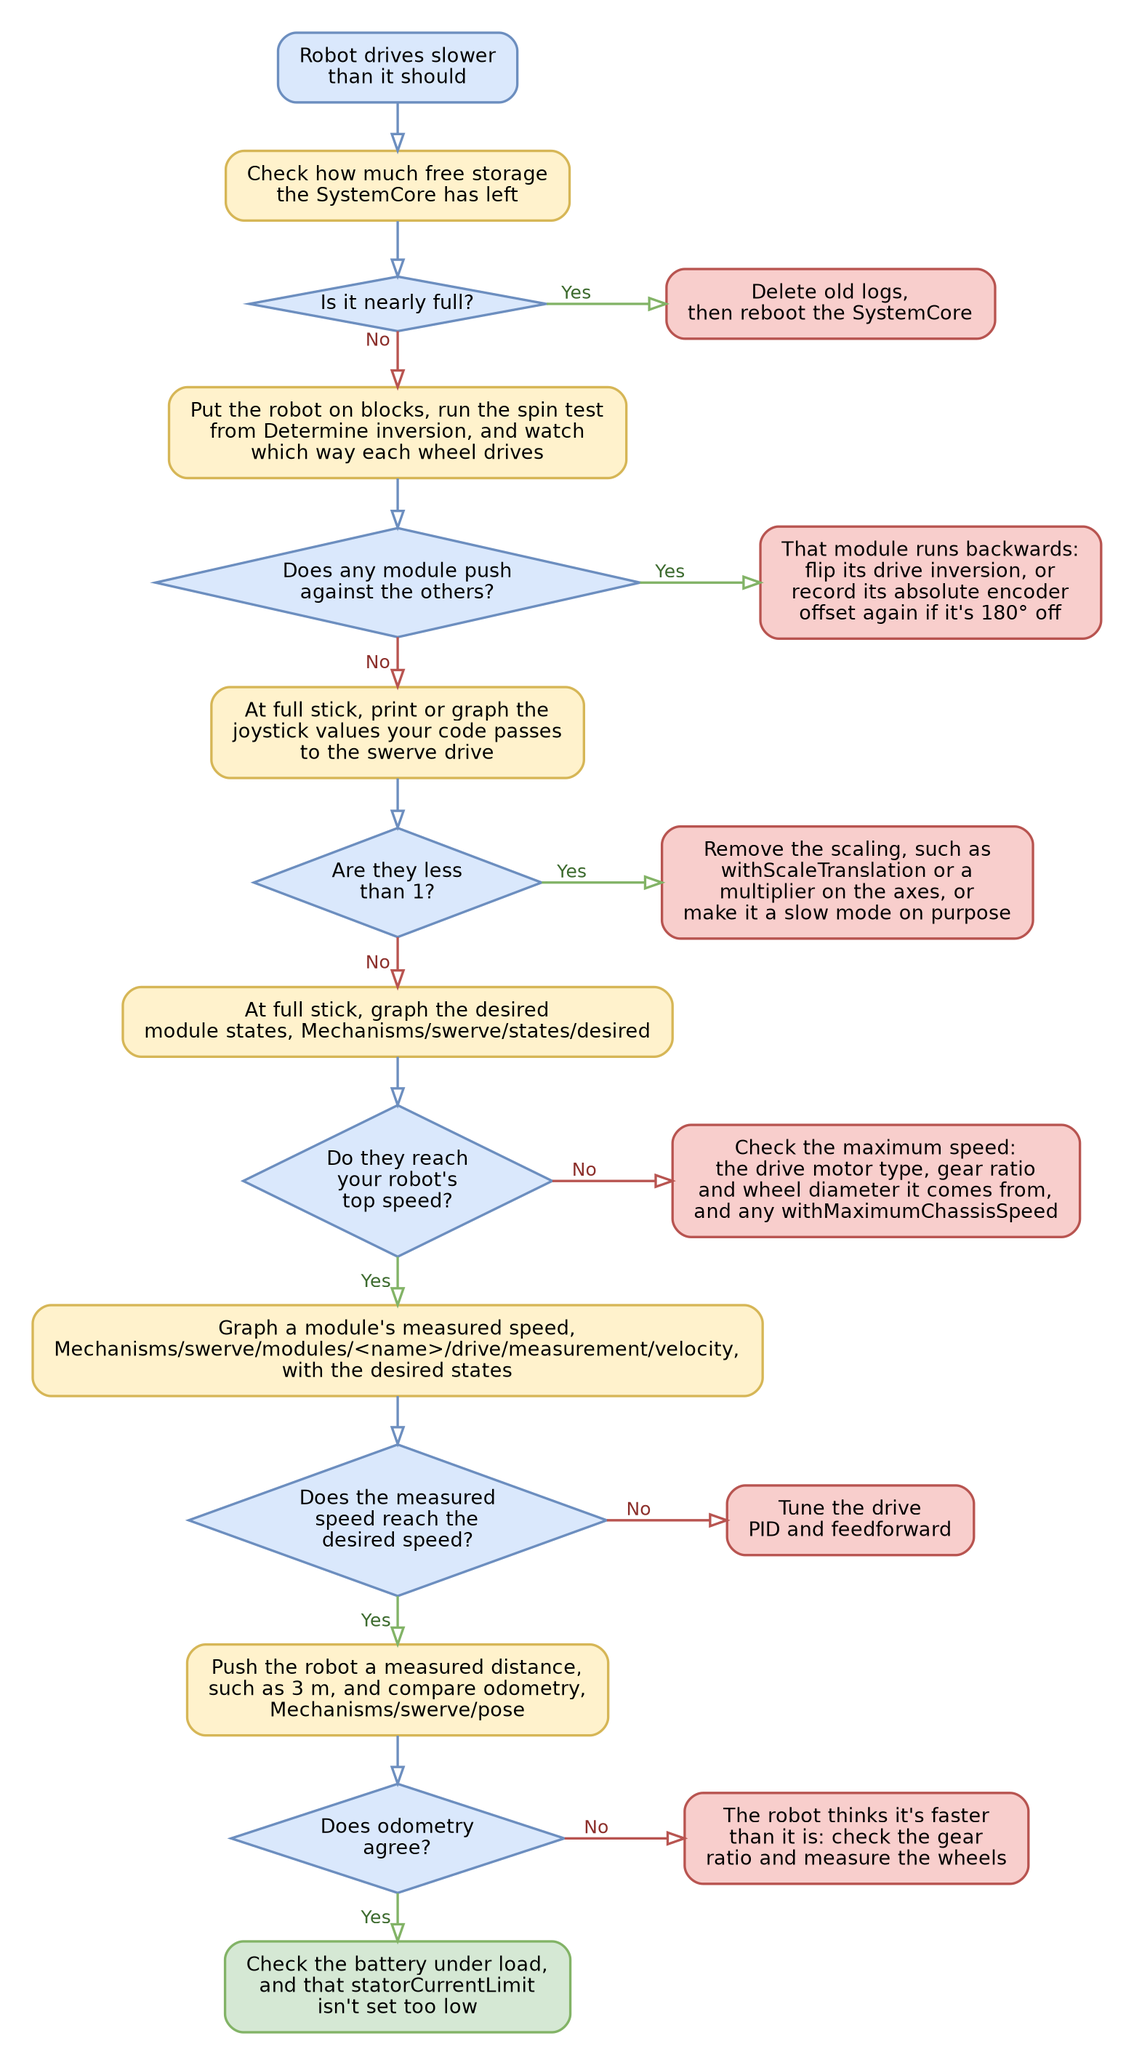
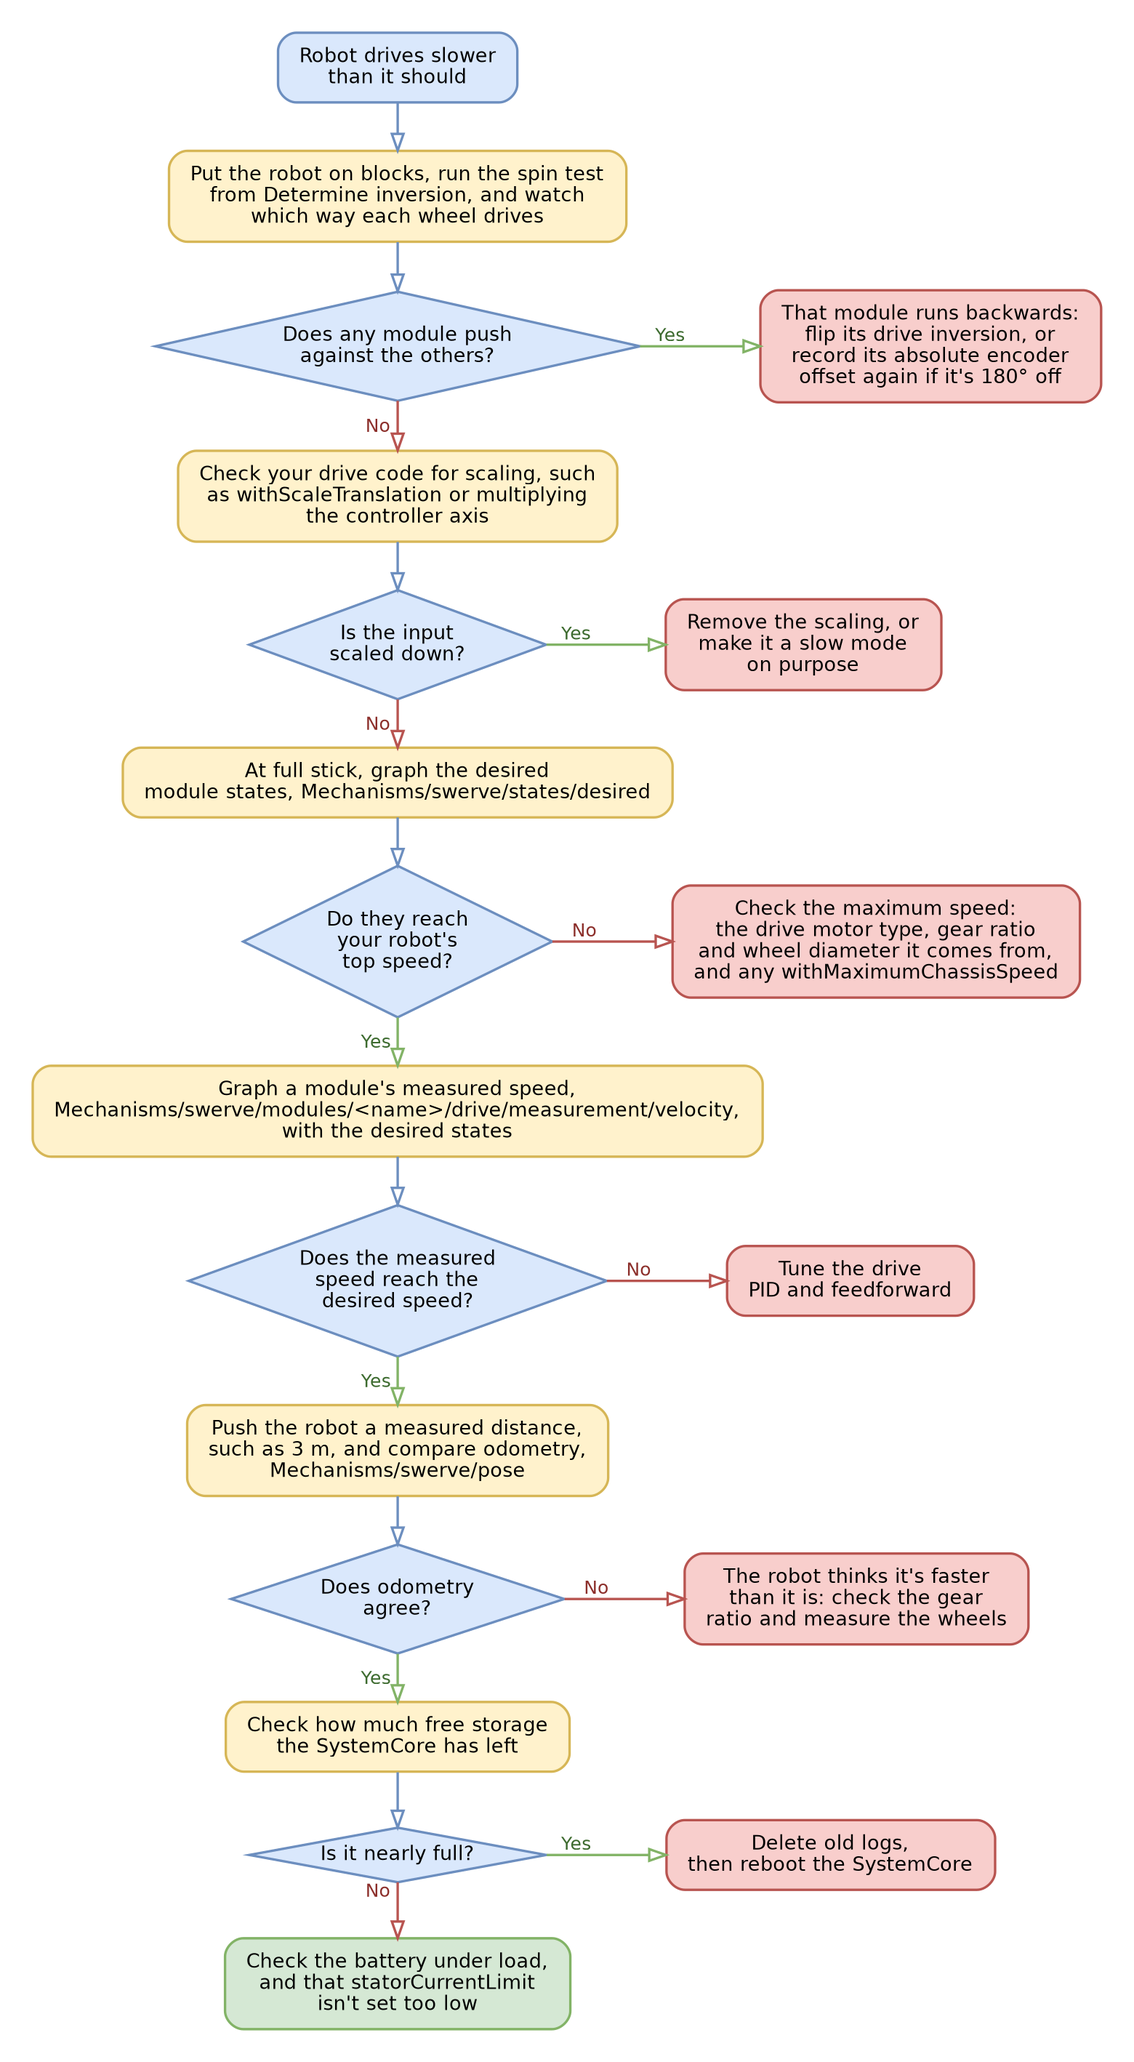
Flowcharts: storage last for a slow robot, simpler scaling check, loop overruns at startup are normal, locations in inches, encoder too far from the magnet, drive-straight check is for angle gearing

diff --git a/how-to/troubleshooting-flowchart.md b/how-to/troubleshooting-flowchart.md
@@ -38,7 +38,7 @@ driving, in nine steps. This is the same path, with the checks that send you to 
 
 ## Robot drives slower than it should
 
-<figure><img src="../.gitbook/assets/yagsl-flowchart-slow.png" alt="A flowchart for: Robot drives slower than it should. Check how much free storage the SystemCore has left. Is it nearly full? If yes, delete old logs, then reboot the SystemCore. If no, continue. Put the robot on blocks, run the spin test from Determine inversion, and watch which way each wheel drives. Does any module push against the others? If yes, that module runs backwards: flip its drive inversion, or record its absolute encoder offset again if it's 180° off. If no, continue. At full stick, print or graph the joystick values your code passes to the swerve drive. Are they less than 1? If yes, remove the scaling, such as withScaleTranslation or a multiplier on the axes, or make it a slow mode on purpose. If no, continue. At full stick, graph the desired module states, Mechanisms/swerve/states/desired. Do they reach your robot's top speed? If no, check the maximum speed: the drive motor type, gear ratio and wheel diameter it comes from, and any withMaximumChassisSpeed. If yes, continue. Graph a module's measured speed, Mechanisms/swerve/modules/<name>/drive/measurement/velocity, with the desired states. Does the measured speed reach the desired speed? If no, tune the drive PID and feedforward. If yes, continue. Push the robot a measured distance, such as 3 m, and compare odometry, Mechanisms/swerve/pose. Does odometry agree? If no, the robot thinks it's faster than it is: check the gear ratio and measure the wheels. If yes, continue. If every check passes: check the battery under load, and that statorCurrentLimit isn't set too low."><figcaption><p>Robot drives slower than it should.</p></figcaption></figure>
+<figure><img src="../.gitbook/assets/yagsl-flowchart-slow.png" alt="A flowchart for: Robot drives slower than it should. Put the robot on blocks, run the spin test from Determine inversion, and watch which way each wheel drives. Does any module push against the others? If yes, that module runs backwards: flip its drive inversion, or record its absolute encoder offset again if it's 180° off. If no, continue. Check your drive code for scaling, such as withScaleTranslation or multiplying the controller axis. Is the input scaled down? If yes, remove the scaling, or make it a slow mode on purpose. If no, continue. At full stick, graph the desired module states, Mechanisms/swerve/states/desired. Do they reach your robot's top speed? If no, check the maximum speed: the drive motor type, gear ratio and wheel diameter it comes from, and any withMaximumChassisSpeed. If yes, continue. Graph a module's measured speed, Mechanisms/swerve/modules/<name>/drive/measurement/velocity, with the desired states. Does the measured speed reach the desired speed? If no, tune the drive PID and feedforward. If yes, continue. Push the robot a measured distance, such as 3 m, and compare odometry, Mechanisms/swerve/pose. Does odometry agree? If no, the robot thinks it's faster than it is: check the gear ratio and measure the wheels. If yes, continue. Check how much free storage the SystemCore has left. Is it nearly full? If yes, delete old logs, then reboot the SystemCore. If no, continue. If every check passes: check the battery under load, and that statorCurrentLimit isn't set too low."><figcaption><p>Robot drives slower than it should.</p></figcaption></figure>
 
 * The spin test, drive inversion and offsets: [Determine inversion](determine-inversion.md)
 * Graphing the module states: [Set up AdvantageScope](set-up-advantagescope.md)
@@ -56,10 +56,11 @@ driving, in nine steps. This is the same path, with the checks that send you to 
 
 ## Robot is drifting
 
-<figure><img src="../.gitbook/assets/yagsl-flowchart-drift.png" alt="A flowchart for: Robot drifts sideways while driving or rotating. Drive around while you watch the Driver Station console. Any errors, or loop overruns? If yes, fix them first: check the wiring of the encoder, motor controller and gyro, and speed up slow code. If no, continue. Drive straight slowly, and watch the wheels or AdvantageScope's Swerve tab. Do all the wheels point straight? If no, see the Wheels not pointing straight flowchart. If yes, continue. Drive forward, turn 90°, then drive forward again. Does the drive direction change as the robot turns? If yes, work through the 8 steps. If no, continue. Point every wheel forward, reboot, then graph each absolute encoder, Mechanisms/swerve/modules/<name>/encoder. Does each still read 0? If no, secure the magnet and encoder (loctite the magnet), then record the offsets again. If yes, continue. While driving, graph the desired and current module states, Mechanisms/swerve/states/desired and Mechanisms/swerve/states/current. Does each module track its speed and angle? If no, tune the drive and azimuth PID and feedforward. If one module lags the others, grease its gears. If yes, continue. Compare physicalproperties.json and every module JSON with Standard Conversion Factors. Do the gear ratio and wheel diameter match, with no per-module gearing? If no, fix them in physicalproperties.json, and remove per-module gearing overrides. If yes, continue. Drive straight while rotating, then drive straight without rotating. Does it drift only while rotating too? If yes, tune withDiscretizationTime, then the gyro angular velocity scale factor. If no, continue. If every check passes: check the rest of Fix swerve drive drift: vision standard deviations, current limits, the center of gravity, PathPlanner."><figcaption><p>Robot drifts sideways while driving or rotating.</p></figcaption></figure>
+<figure><img src="../.gitbook/assets/yagsl-flowchart-drift.png" alt="A flowchart for: Robot drifts sideways while driving or rotating. Drive around while you watch the Driver Station console. Loop overruns just after the code starts are normal. Any errors? If yes, fix them first: check the wiring of the encoder, motor controller and gyro. If no, continue. Drive straight slowly, and graph each module's azimuth motor position with its absolute encoder: Mechanisms/swerve/modules/<name>/azimuth/mechanism/position and Mechanisms/swerve/modules/<name>/encoder. This only checks the angle gearing. Do the lines stay on top of each other? If no, the angle gear ratio doesn't match the absolute encoder: fix it for your module and its configuration. If yes, continue. Drive forward, turn 90°, then drive forward again. Does the drive direction change as the robot turns? If yes, work through the 8 steps. If no, continue. Point every wheel forward, reboot, then graph each absolute encoder, Mechanisms/swerve/modules/<name>/encoder. Does each still read 0? If no, secure the magnet and encoder (loctite the magnet), then record the offsets again. If yes, continue. While driving, graph the desired and current module states, Mechanisms/swerve/states/desired and Mechanisms/swerve/states/current. Does each module track its speed and angle? If no, tune the drive and azimuth PID and feedforward. If one module lags the others, grease its gears. If yes, continue. Compare physicalproperties.json and every module JSON with Standard Conversion Factors. Do the gear ratio and wheel diameter match, with no per-module gearing? If no, fix them in physicalproperties.json, and remove per-module gearing overrides. If yes, continue. Drive straight while rotating, then drive straight without rotating. Does it drift only while rotating too? If yes, tune withDiscretizationTime, then the gyro angular velocity scale factor. If no, continue. If every check passes: check the rest of Fix swerve drive drift: vision standard deviations, current limits, the center of gravity, PathPlanner."><figcaption><p>Robot drifts sideways while driving or rotating.</p></figcaption></figure>
 
-* Wiring and loop overruns: [Fix swerve drive drift](../reference/swerve-drift-causes.md#hardware-causes)
-* Wheels not straight: [Wheels not pointing straight](#wheels-not-pointing-straight)
+* Wiring: [Fix swerve drive drift](../reference/swerve-drift-causes.md#hardware-causes)
+* Angle gearing: [Standard Conversion Factors](../reference/standard-conversion-factors.md) and
+  [One module doesn't start in the right position](#one-module-doesnt-start-in-the-right-position)
 * Direction changes as the robot turns: [Forward is not forward: the 8 steps](#forward-is-not-forward-the-8-steps)
 * Recording offsets: [Check and calibrate your hardware](../tutorial/04-verify-and-calibrate-hardware.md)
 * Tuning the modules: [Practice in simulation](../tutorial/practice-in-simulation.md) and
@@ -70,7 +71,7 @@ driving, in nine steps. This is the same path, with the checks that send you to 
 
 ## Wheels not pointing straight
 
-<figure><img src="../.gitbook/assets/yagsl-flowchart-align.png" alt="A flowchart for: Wheels don't all point straight when you drive straight. List every device in Phoenix Tuner X or the REV Hardware Client. Do the CAN IDs and device types match each module's JSON? If no, fix them in each module's JSON file. If yes, continue. On blocks, turn one wheel by hand at a time and watch which module moves in AdvantageScope's Swerve tab. Does the matching module move? If no, put the module files in swervedrive.json's modules list in order: front left, front right, back left, back right. If yes, continue. Measure from the robot's center to each module's center, and compare with each module's location. Do the locations match? If no, fix the locations. See Verify your module locations. If yes, continue. Point every wheel forward with its bevel gear on the left, then graph each absolute encoder, Mechanisms/swerve/modules/<name>/encoder. Does each read 0? If no, record that module's absolute encoder offset again. If yes, continue. Graph the desired and current module states, Mechanisms/swerve/states/desired and Mechanisms/swerve/states/current. Does each module reach its angle? If no, tune the azimuth PID and feedforward. If yes, continue. Open a DataLog from a match, and graph the desired and current module states while the robot is pushed or turning hard. Do the modules fall behind their angle in a match, but not on blocks? If yes, the angle current limit is too low: raise statorCurrentLimit.angle in physicalproperties.json (the default is 20 A). If no, continue. If every check passes: only one module still acts up: see One module doesn't start in the right position."><figcaption><p>Wheels don't all point straight when you drive straight.</p></figcaption></figure>
+<figure><img src="../.gitbook/assets/yagsl-flowchart-align.png" alt="A flowchart for: Wheels don't all point straight when you drive straight. List every device in Phoenix Tuner X or the REV Hardware Client. Do the CAN IDs and device types match each module's JSON? If no, fix them in each module's JSON file. If yes, continue. On blocks, turn one wheel by hand at a time and watch which module moves in AdvantageScope's Swerve tab. Does the matching module move? If no, put the module files in swervedrive.json's modules list in order: front left, front right, back left, back right. If yes, continue. Measure from the robot's center to each module's center in inches, and compare with each module's location, also in inches. Do the locations match? If no, fix the locations, in inches. See Verify your module locations. If yes, continue. Point every wheel forward with its bevel gear on the left, then graph each absolute encoder, Mechanisms/swerve/modules/<name>/encoder. Does each read 0? If no, record that module's absolute encoder offset again. If yes, continue. Graph the desired and current module states, Mechanisms/swerve/states/desired and Mechanisms/swerve/states/current. Does each module reach its angle? If no, tune the azimuth PID and feedforward. If yes, continue. Open a DataLog from a match, and graph the desired and current module states while the robot is pushed or turning hard. Do the modules fall behind their angle in a match, but not on blocks? If yes, the angle current limit is too low: raise statorCurrentLimit.angle in physicalproperties.json (the default is 20 A). If no, continue. If every check passes: only one module still acts up: see One module doesn't start in the right position."><figcaption><p>Wheels don't all point straight when you drive straight.</p></figcaption></figure>
 
 * Device type strings: [Device Type Strings](../reference/json-schema/device-types.md)
 * Module locations: [Verify your module locations](verify-module-locations.md)
@@ -87,7 +88,7 @@ When one module's azimuth acts up, or points somewhere different each time the r
 always in that module's hardware or its gearing. Check the easy causes first: a module built incorrectly is the
 last thing to suspect.
 
-<figure><img src="../.gitbook/assets/yagsl-flowchart-azimuth.png" alt="A flowchart for: One module's azimuth acts up, or doesn't start in the right position every time. Watch the Driver Station console, and turn the wheel by hand while you graph Mechanisms/swerve/modules/<name>/encoder. Does the reading change smoothly, with no errors? If no, the absolute encoder is disconnected: reseat or replace its cable, and check its CAN ID, power and status light. If yes, continue. With the wheel pointing straight, draw a straight
+<figure><img src="../.gitbook/assets/yagsl-flowchart-azimuth.png" alt="A flowchart for: One module's azimuth acts up, or doesn't start in the right position every time. Watch the Driver Station console, and turn the wheel by hand while you graph Mechanisms/swerve/modules/<name>/encoder. Does the reading change smoothly, with no errors? If no, the absolute encoder is disconnected: reseat or replace its cable, and check its CAN ID, power and status light. If yes, continue. Check the encoder's magnet reading: its status light, or the magnet health in the vendor's tool. The vendor's documentation says what each means. Does it report a good magnet? If no, the encoder is too far from the magnet, or off center: close the gap to the vendor's spec, then record the offset again. If yes, continue. With the wheel pointing straight, draw a straight
 line across the magnet and the module frame.
 Drive the robot, point the wheel straight again,
 and look at the line. Does the line
@@ -102,6 +103,7 @@ Turn the wheel by hand: if it turns
 freely, replace the motor. If not,
 clean and grease the module. If yes, continue. If every check passes: the module is built incorrectly. Turn the wheel exactly one turn by hand: the absolute encoder should read one turn too. Compare it with another module part by part, and rebuild it by the manufacturer's guide."><figcaption><p>One module's azimuth acts up, or doesn't start in the right position every time.</p></figcaption></figure>
 
+* What the magnet status light or reading means: your encoder's page under [Absolute Encoders](../reference/hardware/absolute-encoders.md), and the vendor's documentation
 * Reading the absolute encoder and recording offsets: [Check and calibrate your hardware](../tutorial/04-verify-and-calibrate-hardware.md)
 * Graphing the motor position with the absolute encoder: [Practice in simulation](../tutorial/practice-in-simulation.md)
 * Angle gear ratios: [Standard Conversion Factors](../reference/standard-conversion-factors.md)

diff --git a/how-to/fix-a-problem.md b/how-to/fix-a-problem.md
@@ -28,7 +28,7 @@ it catches inversions, bad offsets and CAN ID mistakes in a few minutes.
 | What you see | Start here |
 | --- | --- |
 | One or more modules spin "out of control" | [Troubleshooting flowchart](troubleshooting-flowchart.md) |
-| One module acts up, or doesn't start in the right position every time | A disconnected absolute encoder, a loose magnet, wrong gearing, a dying motor, or a module built incorrectly. See the [One module doesn't start in the right position](troubleshooting-flowchart.md#one-module-doesnt-start-in-the-right-position) flowchart. |
+| One module acts up, or doesn't start in the right position every time | A disconnected absolute encoder, an encoder too far from its magnet, a loose magnet, wrong gearing, a dying motor, or a module built incorrectly. See the [One module doesn't start in the right position](troubleshooting-flowchart.md#one-module-doesnt-start-in-the-right-position) flowchart. |
 | A module points the wrong way, or its readings go the wrong way when turned by hand | [Determine inversion](determine-inversion.md), steps 1 and 2 |
 | In the spin test, one wheel pushes against the others | That module's drive motor is inverted. See [Determine inversion](determine-inversion.md), step 3. |
 | In the spin test, the robot spins clockwise instead of counterclockwise | A diagonal module swap, inverted drive motors, or offsets captured with the bevel gears facing right. See [Determine inversion](determine-inversion.md), step 3. |
@@ -52,7 +52,7 @@ it catches inversions, bad offsets and CAN ID mistakes in a few minutes.
 | The robot drifts sideways while driving or rotating | The [Robot is drifting](troubleshooting-flowchart.md#robot-is-drifting) flowchart, then [Fix swerve drive drift](../reference/swerve-drift-causes.md) |
 | The modules are slow to reach their angle, overshoot, or shake | [Tune PIDF gains](tune-pidf-gains.md) |
 | In a match, the modules fall behind their angles, but they're fine on blocks | The angle motor's current limit is too low. Raise `statorCurrentLimit.angle` in [physicalproperties.json](../reference/json-schema/physicalproperties-json.md). See the [Wheels not pointing straight](troubleshooting-flowchart.md#wheels-not-pointing-straight) flowchart. |
-| The robot drives slower than it should | A full SystemCore, a module running backwards, scaled-down joystick input, the maximum speed, the gear ratio or wheel diameter, or the gains. See the [Robot drives slower than it should](troubleshooting-flowchart.md#robot-drives-slower-than-it-should) flowchart. |
+| The robot drives slower than it should | A module running backwards, scaling in the drive code, the maximum speed, the gains, the gear ratio or wheel diameter, or a full SystemCore. See the [Robot drives slower than it should](troubleshooting-flowchart.md#robot-drives-slower-than-it-should) flowchart. |
 | Autonomous ends short or long by about the same amount every time | The gear ratio or wheel diameter is off, or the wheel tread has worn down. See the [Autonomous is consistently off](troubleshooting-flowchart.md#autonomous-is-consistently-off) flowchart. |
 | PathPlanner paths overshoot or end in the wrong place | [Fix swerve drive drift](../reference/swerve-drift-causes.md), then [Set up PathPlanner](setup-pathplanner.md) |
 

diff --git a/reference/swerve-drift-causes.md b/reference/swerve-drift-causes.md
@@ -41,6 +41,7 @@ Incorrect, worn, or loose wiring produces different symptoms depending on which 
 
 **Magnetic (absolute) encoder**
 
+* [ ] The encoder is too far from the magnet to read it reliably. The vendor's documentation says how to tell, usually from a status light or a magnet strength reading.
 * [ ] Magnet is not secured to the swerve module and slips while in motion; absolute encoder offsets would need constant readjustment until the magnet is secured (loctite/glue it in).
 * [ ] Magnetic encoder itself is not secured to the module.
 
@@ -60,7 +61,7 @@ Incorrect, worn, or loose wiring produces different symptoms depending on which 
 
 ## Software causes
 
-* [ ] Constant `Command Scheduler loop overruns` because of other parts of your code.
+* [ ] Constant `Command Scheduler loop overruns` because of other parts of your code. Overruns just after the code starts are normal, and on the SystemCore overruns may no longer cause drift.
 * [ ] Maximum physical velocity isn't set correctly. See `SwerveDriveConfig.withMaximumChassisSpeed()`/`withMaximumModuleSpeed()`.
 * [ ] If using open-loop control, modules run at different speeds.
 * [ ] Controller input filtering.
